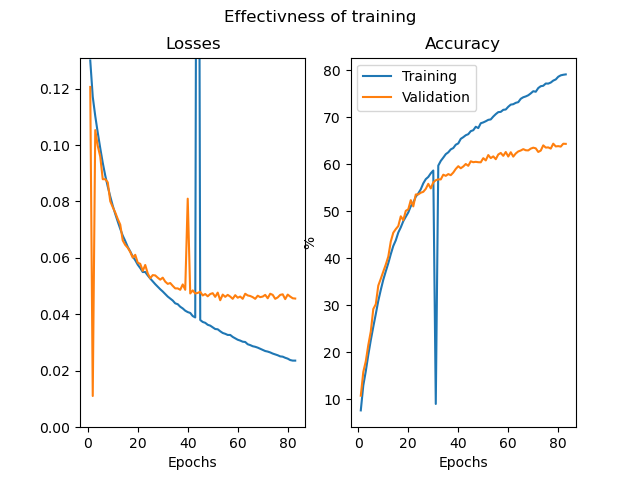
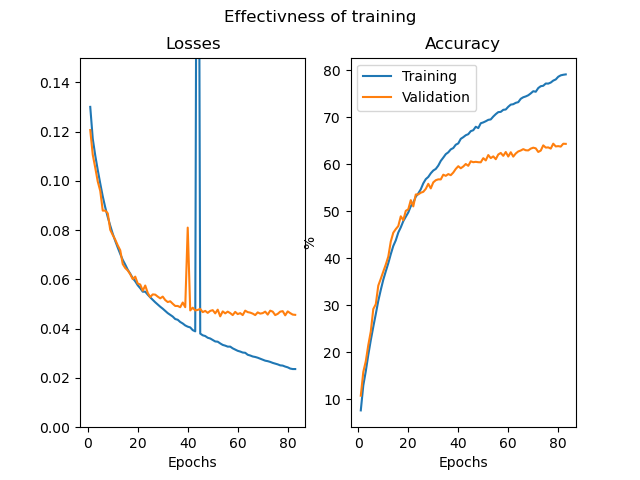
try no roation, less noise

Changed region(s): [[0.0625, 0.125, 0.4688, 0.8125], [0.6562, 0.3438, 0.6875, 0.8438], [0.2812, 0.1562, 0.3125, 0.2812]]

diff --git a/export_to_remote/plot_acc.py b/export_to_remote/plot_acc.py
@@ -1,42 +1,52 @@
 import matplotlib.pyplot as plt
 import numpy as np
+from efficientnet_pytorch import EfficientNet
+from torchinfo import summary
+from Densnet import densenet_cifar
 
 
 # epoch_list = np.arange(1,84)
 # train_losses = np.array([0.13, 0.1171, 0.1103, 0.1044, 0.0989, 0.0937, 0.0892, 0.0853, 0.0818, 0.0785, 0.0756, 0.0729, 0.0703, 0.0679, 0.066, 0.0639, 0.0623, 0.0605, 0.0592, 0.0576, 0.0564, 0.055, 0.055, 0.0538, 0.0527, 0.0517, 0.0507, 0.0498, 0.0489, 0.0481, 0.0472, 0.0463, 0.0456, 0.0449, 0.0439, 0.0436, 0.0427, 0.0421, 0.0413, 0.0408, 0.0405, 0.0394, 0.0389, 0.383, 0.0380, 0.0373, 0.0370, 0.0363, 0.036, 0.0354, 0.0348, 0.0347, 0.034, 0.0334, 0.0331, 0.0327, 0.0327, 0.0320, 0.0315, 0.0310, 0.0307, 0.0303, 0.0302, 0.0294, 0.0291, 0.0287, 0.0285, 0.0282, 0.0278, 0.0274, 0.027, 0.0268, 0.0265, 0.0261, 0.0258, 0.0255, 0.0251, 0.025, 0.0246, 0.0243, 0.0238, 0.0236, 0.0236])
-# val_losses = np.array([0.1206, 0.01106, 0.1053, 0.0997, 0.0959, 0.0879, 0.0879, 0.0868, 0.0801, 0.078, 0.0761, 0.0738, 0.0718, 0.0662, 0.0646, 0.0636, 0.0621, 0.0601, 0.0611, 0.0583, 0.0579, 0.0554, 0.0575, 0.0545, 0.0528, 0.0539, 0.0538, 0.0530, 0.0523, 0.0530, 0.0516, 0.0508, 0.0511, 0.0501, 0.0492, 0.0492, 0.0487, 0.0506, 0.0487, 0.081, 0.0474, 0.0485, 0.0474, 0.0476, 0.048, 0.0467, 0.0472, 0.0464, 0.0472, 0.0475, 0.0462, 0.0477, 0.045, 0.047, 0.0462, 0.0469, 0.0463, 0.0455, 0.0468, 0.0459, 0.0463, 0.0455, 0.0473, 0.0467, 0.0465, 0.0461, 0.0455, 0.0466, 0.0461, 0.0463, 0.0469, 0.0457, 0.0473,  0.0469, 0.0455, 0.046, 0.0469, 0.0471, 0.0454, 0.047, 0.0463, 0.0457, 0.0456])
-# train_acc = np.array([7.618, 12.928, 15.954, 19.434, 22.566, 25.4020, 28.116, 30.928, 33.26, 35.424, 37.2040, 38.926, 40.856, 42.6, 43.8, 45.456, 46.56, 47.874, 48.812, 49.732, 51.054, 51.79, 53.094, 53.778, 54.66, 55.922, 56.816, 57.28, 58.062, 58.652, 8.99, 59.694, 60.698, 61.396, 62.132, 62.52, 63.148, 63.434, 64.142, 64.42, 65.392, 65.744, 66.158, 66.382, 67.028, 67.224, 67.962, 67.678, 68.708, 68.886, 69.136, 69.432, 69.524, 70.134, 70.648, 71.07, 71.132, 71.56, 71.636, 72.216, 72.67, 72.76, 73.052, 73.196, 73.912, 74.236, 74.414, 74.662, 75.06, 75.524, 75.41, 76.196, 76.588, 76.682, 77.16, 77.142, 77.368, 77.784, 78.026, 78.6, 78.9,79.02, 79.1])
+# val_losses = np.array([0.1206, 0.1106, 0.1053, 0.0997, 0.0959, 0.0879, 0.0879, 0.0868, 0.0801, 0.078, 0.0761, 0.0738, 0.0718, 0.0662, 0.0646, 0.0636, 0.0621, 0.0601, 0.0611, 0.0583, 0.0579, 0.0554, 0.0575, 0.0545, 0.0528, 0.0539, 0.0538, 0.0530, 0.0523, 0.0530, 0.0516, 0.0508, 0.0511, 0.0501, 0.0492, 0.0492, 0.0487, 0.0506, 0.0487, 0.081, 0.0474, 0.0485, 0.0474, 0.0476, 0.048, 0.0467, 0.0472, 0.0464, 0.0472, 0.0475, 0.0462, 0.0477, 0.045, 0.047, 0.0462, 0.0469, 0.0463, 0.0455, 0.0468, 0.0459, 0.0463, 0.0455, 0.0473, 0.0467, 0.0465, 0.0461, 0.0455, 0.0466, 0.0461, 0.0463, 0.0469, 0.0457, 0.0473,  0.0469, 0.0455, 0.046, 0.0469, 0.0471, 0.0454, 0.047, 0.0463, 0.0457, 0.0456])
+# train_acc = np.array([7.618, 12.928, 15.954, 19.434, 22.566, 25.4020, 28.116, 30.928, 33.26, 35.424, 37.2040, 38.926, 40.856, 42.6, 43.8, 45.456, 46.56, 47.874, 48.812, 49.732, 51.054, 51.79, 53.094, 53.778, 54.66, 55.922, 56.816, 57.28, 58.062, 58.652, 58.99, 59.694, 60.698, 61.396, 62.132, 62.52, 63.148, 63.434, 64.142, 64.42, 65.392, 65.744, 66.158, 66.382, 67.028, 67.224, 67.962, 67.678, 68.708, 68.886, 69.136, 69.432, 69.524, 70.134, 70.648, 71.07, 71.132, 71.56, 71.636, 72.216, 72.67, 72.76, 73.052, 73.196, 73.912, 74.236, 74.414, 74.662, 75.06, 75.524, 75.41, 76.196, 76.588, 76.682, 77.16, 77.142, 77.368, 77.784, 78.026, 78.6, 78.9,79.02, 79.1])
 # val_acc =  np.array([10.75, 15.79, 18.08, 21.52, 24.41, 29.18, 30.21, 34.17, 35.62, 37.16, 38.65, 40.34, 43.55, 45.42, 46.19, 46.84, 48.91, 48.09, 50.07, 50.4, 52.35, 51.02, 53.55, 53.57, 53.93, 54.12, 54.75, 55.82, 54.85, 56.13, 56.59, 56.77, 56.76, 57.76, 57.52, 57.89, 57.66, 58.22, 58.99, 59.57, 59.13, 59.51, 60.04, 59.65, 60.61, 60.42, 60.5, 60.42, 60.4, 61.28, 60.8, 61.94, 61.29, 61.66, 61.06, 62.06, 62.39, 61.77, 62.59, 61.63, 62.54, 61.61, 62.28, 62.71, 62.91, 63.2, 62.96, 62.93, 63.31, 63.51, 63.37, 62.6, 62.89, 64.01, 63.53, 63.57, 63.32, 64.36, 63.78, 63.84, 63.74, 64.35, 64.32])
 
-epoch_list = np.arange(1,31)
-train_losses = np.array([])
-val_losses = np.array([])
-train_acc = np.array([])
-val_acc =  np.array([])
+# epoch_list = np.arange(1,29)
+# train_losses = np.array([0.1377,0.1248,0.1189,0.1148,0.1105,0.1067,0.1036,0.1005, 0.098, 0.0955, 0.0934, 0.0913, 0.0894, 0.086, 0.0844, 0.0831, 0.0814, 0.0805, 0.0781, 0.0772, 0.0759, 0.0752, 0.0741, 0.0729, 0.0722, 0.0714, 0.0705 ,0.0701])
+# val_losses = np.array([0.1176, 0.1127, 0.1098, 0.1039, 0.1016, 0.0982, 0.0919, 0.0906, 0.0868, 0.0844, 0.0844, 0.0835, 0.0822, 0.0796, 0.0789, 0.0744, 0.0754, 0.0731, 0.0712, 0.0725, 0.0706, 0.0708, 0.0677, 0.067, 0.0671, 0.068, 0.065, 0.0635])
+# train_acc = np.array([3.122, 7.364, 10.092, 12.148, 14.72, 16.6, 18.498, 20.396, 21.794, 23.194, 24.5040, 26.08, 27.116, 28.28, 29.352, 30.556, 31.5060, 32.574, 33.32, 34.108, 34.974, 35.396, 36.696, 37.154, 37.772, 38.732, 39.29, 39.73])
+# val_acc =  np.array([6.82, 11.2, 13.47, 14.75, 18.334, 18.59, 22.04, 25.22, 25.94, 28.57, 31.01, 30.41, 31.26, 32.63, 33.57, 34.29, 37.17, 36.83, 38.58, 39.86, 39.08, 40.65, 40.37, 42.19, 42.77, 42.98, 42.77, 44.22])
 
 
-print ("epoch list : ",epoch_list)
-print("training loss : ",train_losses)
-print("validation loss : ",val_losses)
-print("training accuracy : ",train_acc)
-print("validation accuracy : ",val_acc)
+# print (len(epoch_list))
+# print(len(train_losses))
+# print(len(val_losses))
+# print(len(train_acc))
+# print(len(val_acc))
 
-plt.subplot(121)
-plt.plot(epoch_list, train_losses, label = "Training loss")
-plt.plot(epoch_list, val_losses, label = "Validation loss")
-plt.xlabel("Epochs")
-plt.ylabel(" ")
-plt.ylim(0, 0.131)
-plt.title("Losses")
+# plt.subplot(121)
+# plt.plot(epoch_list, train_losses, label = "Training loss")
+# plt.plot(epoch_list, val_losses, label = "Validation loss")
+# plt.xlabel("Epochs")
+# plt.ylabel(" ")
+# plt.ylim(0,0.15)
+# plt.title("Losses")
 
-plt.subplot(122)
-plt.plot(epoch_list, train_acc, label = "Training")
-plt.plot(epoch_list, val_acc, label = "Validation")
-plt.xlabel("Epochs")
-plt.ylabel("%")
-plt.title("Accuracy")
-plt.legend()
+# plt.subplot(122)
+# plt.plot(epoch_list, train_acc, label = "Training")
+# plt.plot(epoch_list, val_acc, label = "Validation")
+# plt.xlabel("Epochs")
+# plt.ylabel("%")
+# plt.title("Accuracy")
+# plt.legend()
 
-#plt.rcParams['figure.figsize'] = [10, 5] #size of plot
-plt.suptitle("Effectivness of training")
-plt.show()
+# #plt.rcParams['figure.figsize'] = [10, 5] #size of plot
+# plt.suptitle("Effectivness of training")
+# plt.show()
+
+
+#model = EfficientNet.from_name('efficientnet-b1', num_classes=100)
+model = densenet_cifar(100) #densnet121
+
+
+summary(model,input_size=(32,3,32,32))

diff --git a/export_to_remote/projet_final.py b/export_to_remote/projet_final.py
@@ -26,6 +26,7 @@ from torch.optim.lr_scheduler import CyclicLR
 
 import Binaryconnect as bc
 from EarlyStopper import EarlyStopper
+from torchinfo import summary
 
 # hanlde keyboard interrupt
 import signal
@@ -69,8 +70,8 @@ try :
         transforms.RandomHorizontalFlip(),
         transforms.RandomGrayscale(0.1),
         transforms.ColorJitter(brightness=0.3, contrast=0.2, saturation=0.1, hue=0.1),
-        transforms.RandomRotation(45),
-        AddGaussianNoise(0., 0.001),
+        #transforms.RandomRotation(45),
+        AddGaussianNoise(0., 0.0001),
         transforms.ToTensor(),
         normalize_scratch,
     ])
@@ -324,6 +325,17 @@ except KeyboardInterrupt:
     print("training accuracy : ",train_acc)
     print("validation accuracy : ",val_acc)
     print("stopping list : ",stopping_list)
+
+    model_state = {'model name': model_name,
+        'model': model,
+        'optimizer': optimizer,
+        'epoch': num_epochs,
+        'training': training,
+        'dataset': dataset,
+        'accuracy': 100*correct/total,
+        'loss': running_loss/total}
+    torch.save(model_state, model_dir)
+    print("Modèle sauvegardé dans le chemin : ",model_dir)
 
 finally:
     print("end of training script of ",model_name)
